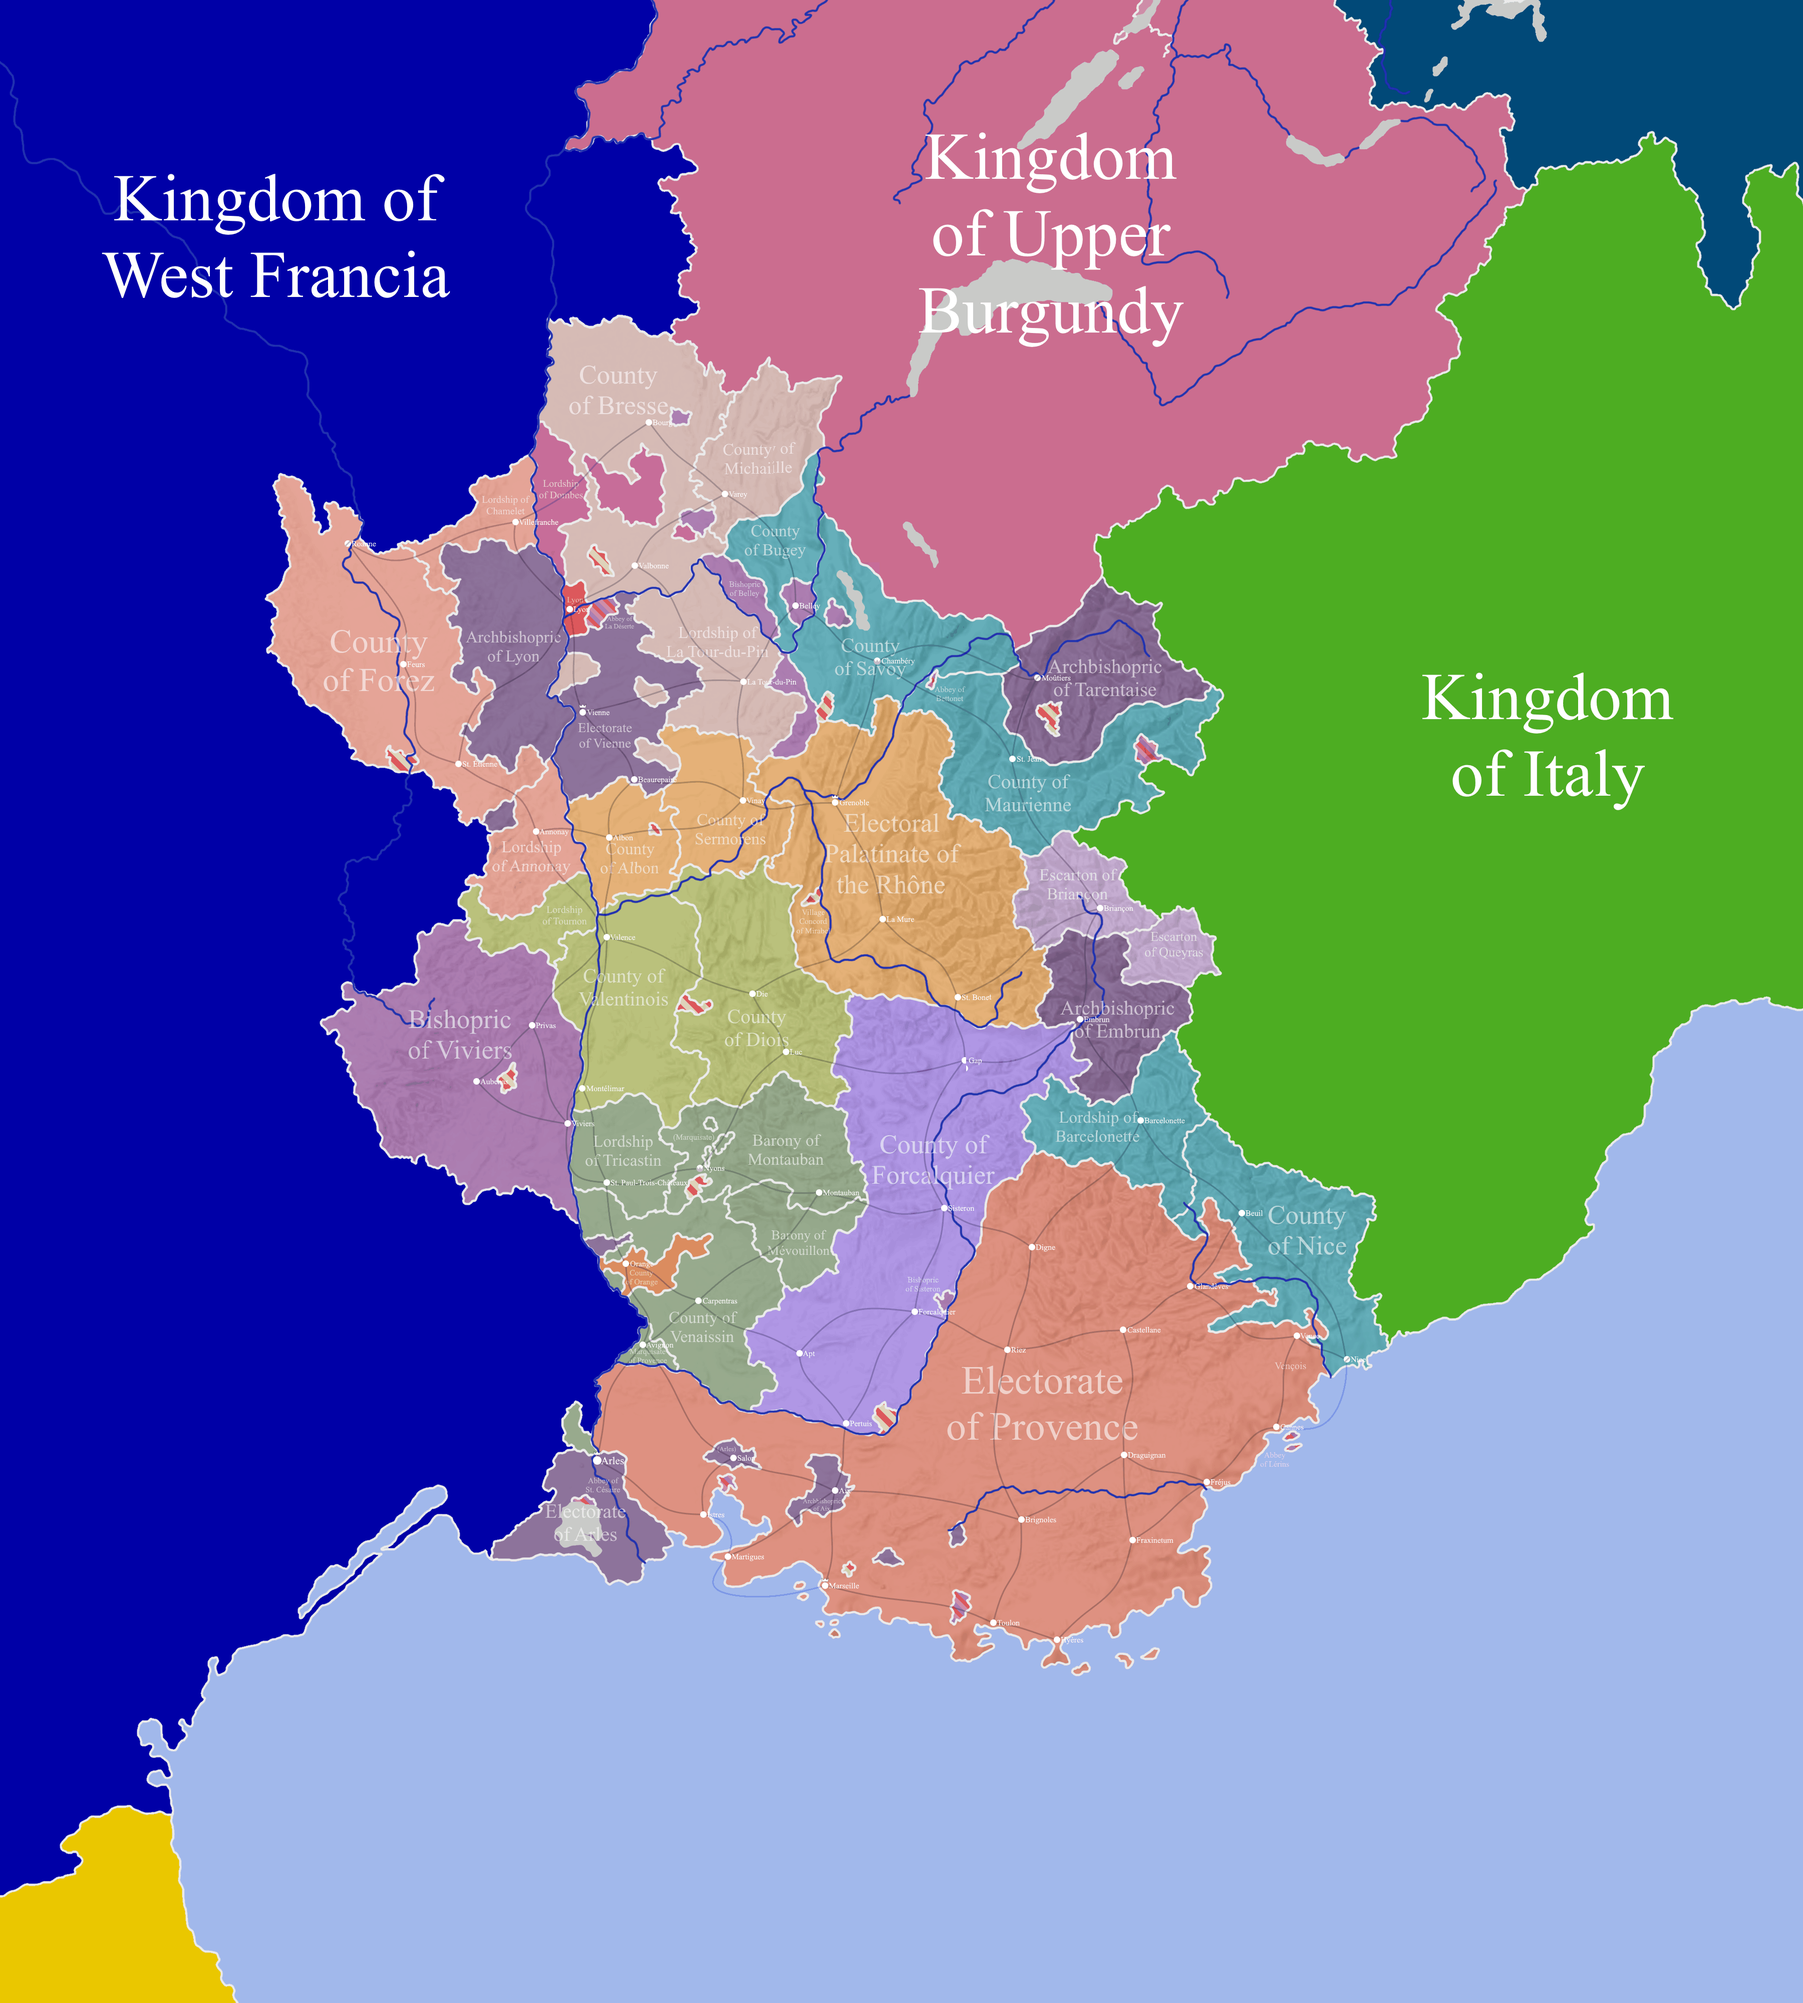
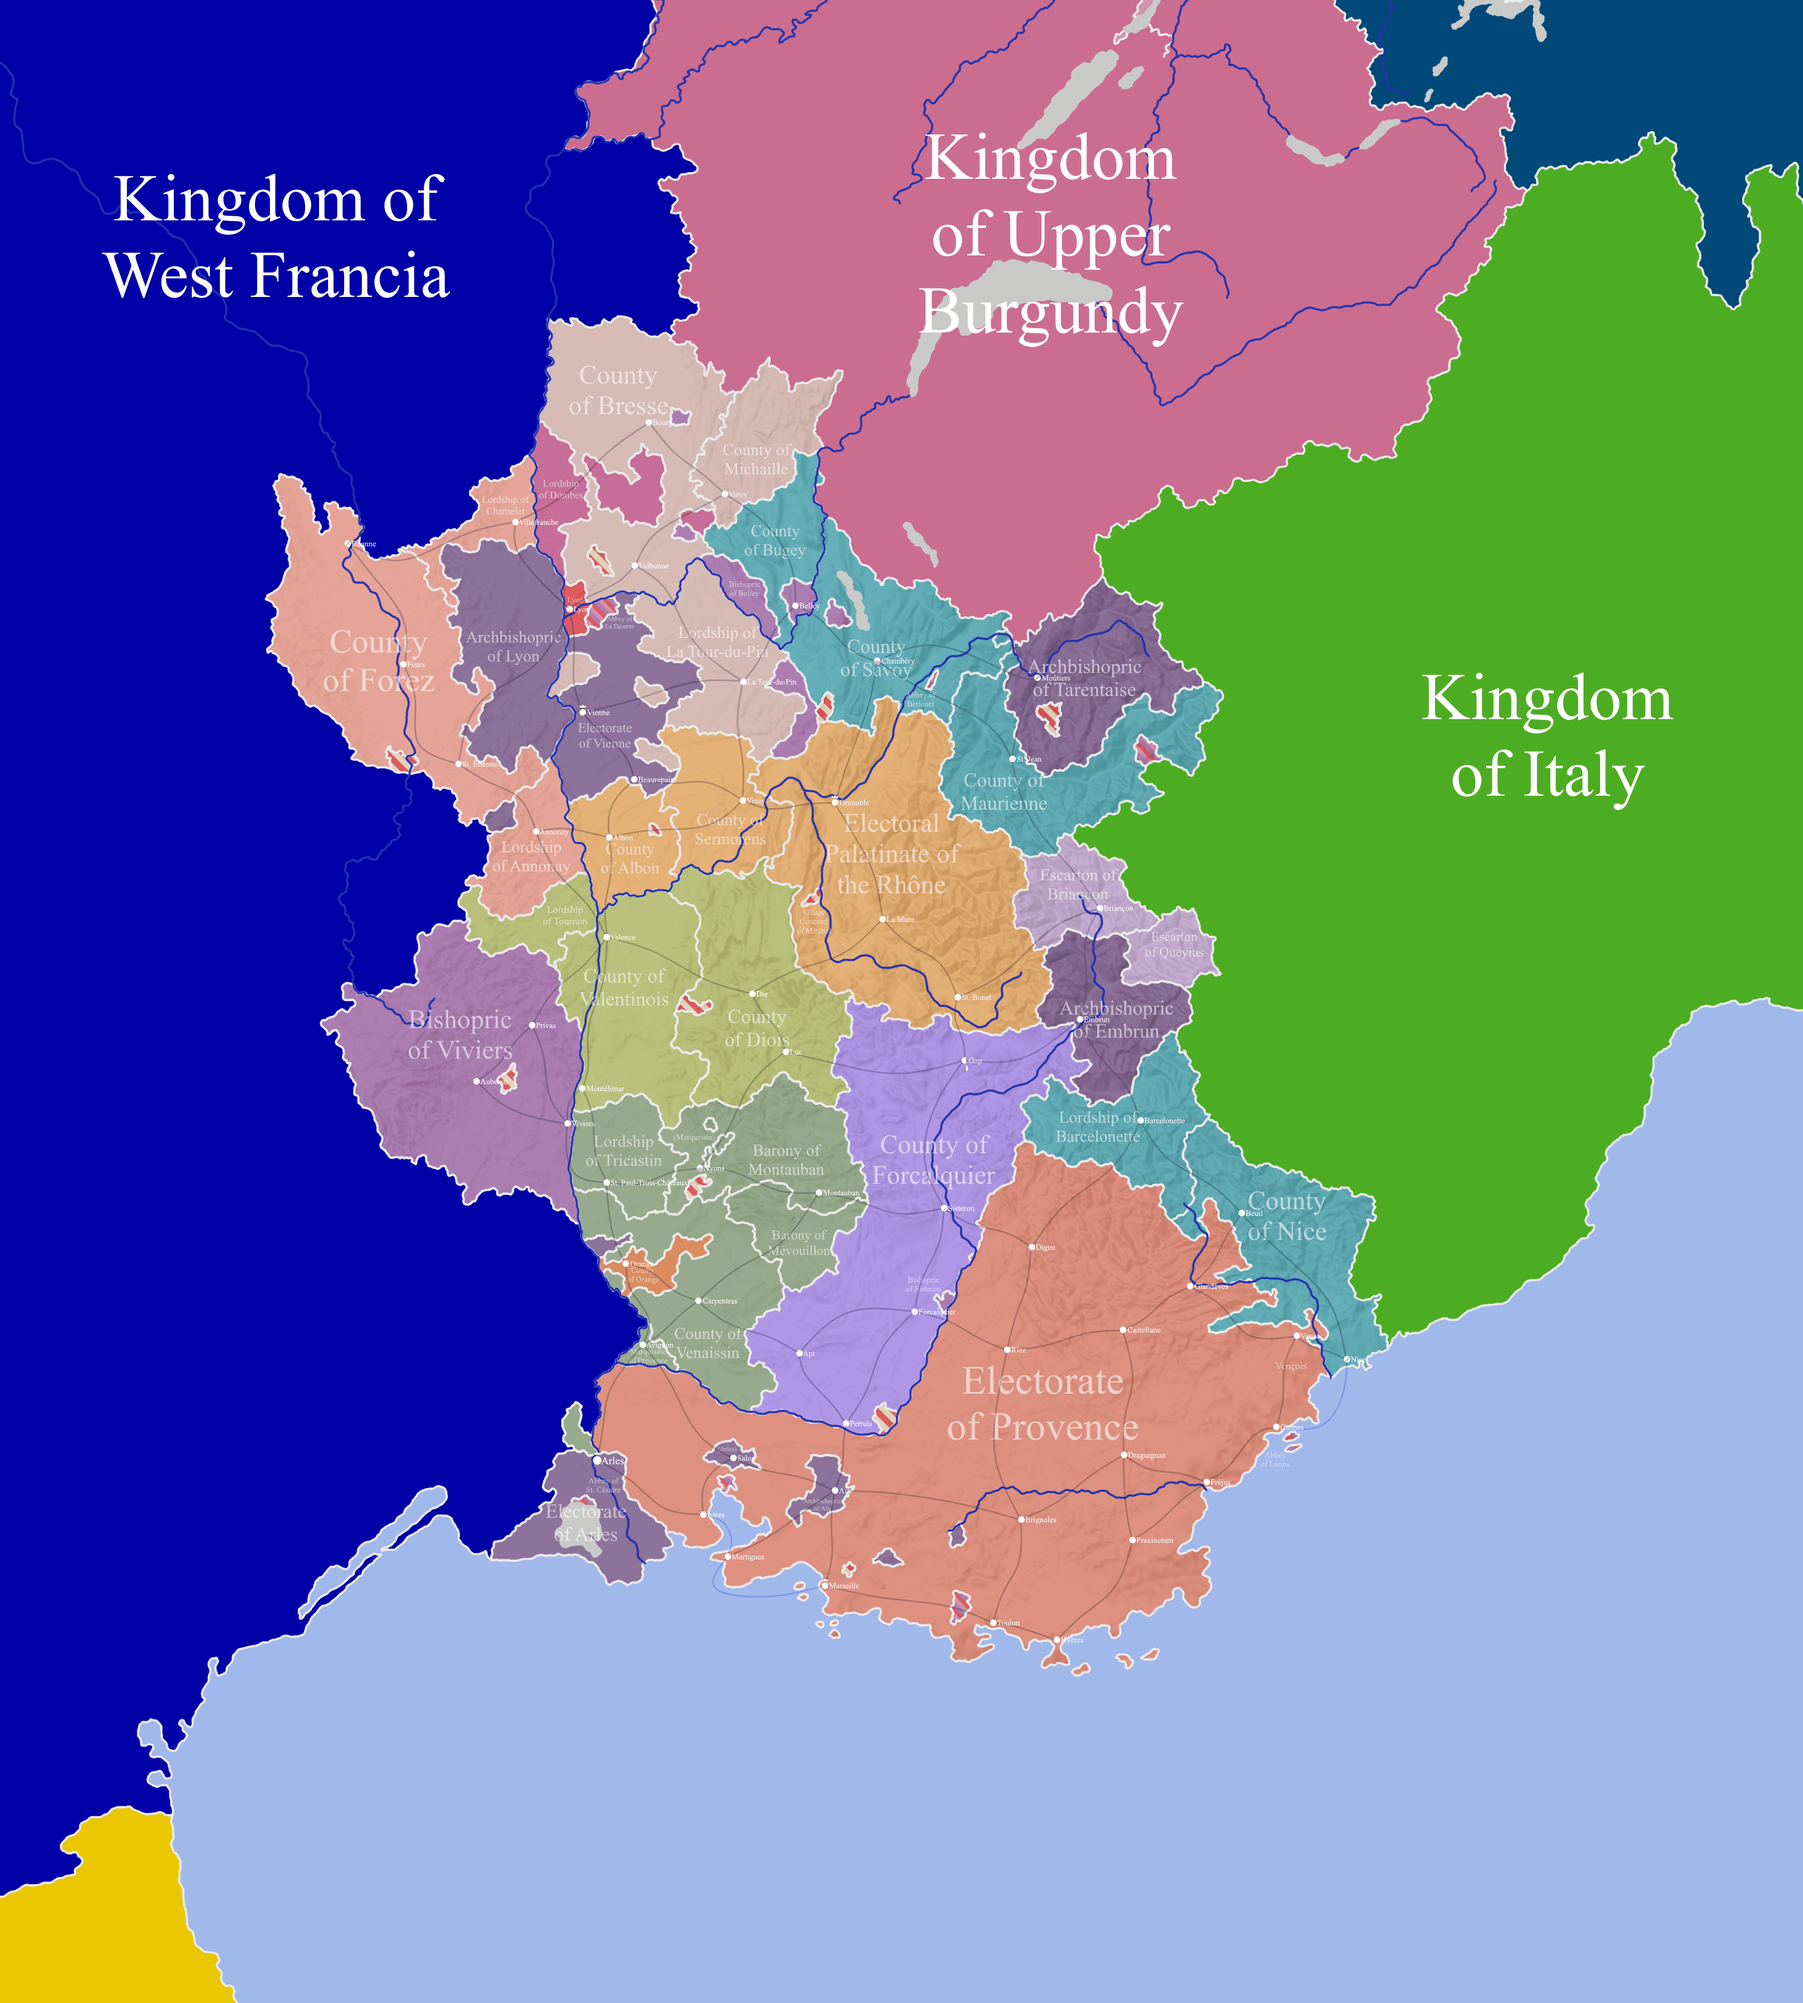
But Why?

diff --git a/Generators/Arelat/Data/states.js b/Generators/Arelat/Data/states.js
@@ -110,7 +110,7 @@ types={state:[
     district:`Alpes`,
     rule:`Ecclesiastical`,
     prestige:[],
-    area:76698,
+    area:77808,
   },{
     name:`Basel`,
     title:`Bishopric`,
@@ -152,7 +152,7 @@ types={state:[
     district:`Drôme`,
     rule:`Ecclesiastical`,
     prestige:[],
-    area:183831,
+    area:184950,
   },{
     name:`Sisteron`,
     title:`Bishopric`,
@@ -166,7 +166,7 @@ types={state:[
     district:`Helvetie`,
     rule:`Ecclesiastical`,
     prestige:[],
-    area:5926,
+    area:4757,
   },{
     name:`Bellelay`,
     title:`Abbey`,
@@ -194,7 +194,7 @@ types={state:[
     district:`Alpes`,
     rule:`Ecclesiastical`,
     prestige:[],
-    area:1618,
+    area:1611,
   },{
     name:`La Déserte`,
     title:`Abbey`,
@@ -264,7 +264,7 @@ types={state:[
     district:`Dauphiné`,
     rule:`Albon`,
     prestige:[`Elector`],
-    area:232586,
+    area:240598,
   },{
     name:`Albon`,
     title:`County`,
@@ -292,35 +292,35 @@ types={state:[
     district:`Dauphiné`,
     rule:`Albon`,
     prestige:[],
-    area:160367,
+    area:158607,
   },{
     name:`Chamelet`,
     title:`Lordship`,
     district:`Dauphiné`,
     rule:`Albon`,
     prestige:[],
-    area:23470,
+    area:21623,
   },{
     name:`Savoy`,
     title:`County`,
     district:`Alpes`,
     rule:`Savoy`,
     prestige:[`Duke`],
-    area:76834,
+    area:87771,
   },{
     name:`Bugey`,
     title:`County`,
     district:`Alpes`,
     rule:`Savoy`,
     prestige:[],
-    area:29131,
+    area:36242,
   },{
     name:`Maurienne`,
     title:`County`,
     district:`Alpes`,
     rule:`Savoy`,
     prestige:[],
-    area:97636,
+    area:91924,
   },{
     name:`Chablais`,
     title:`County`,
@@ -355,14 +355,14 @@ types={state:[
     district:`Romandie`,
     rule:`Savoy`,
     prestige:[],
-    area:71220,
+    area:77532,
   },{
     name:`Gex`,
     title:`Lordship`,
     district:`Bresse`,
     rule:`Savoy`,
     prestige:[],
-    area:18589,
+    area:19097,
   },{
     name:`Aigle`,
     title:`Lordship`,
@@ -418,7 +418,7 @@ types={state:[
     district:`Helvetie`,
     rule:`Zähringen`,
     prestige:[],
-    area:12334,
+    area:13686,
   },{
     name:`Unspunnen`,
     title:`Lordship`,
@@ -509,7 +509,7 @@ types={state:[
     district:`Bresse`,
     rule:`Bâgé`,
     prestige:[],
-    area:53070,
+    area:46447,
   },{
     name:`La Tour-du-Pin`,
     title:`Lordship`,
@@ -523,7 +523,7 @@ types={state:[
     district:`Drôme`,
     rule:`Poitiers`,
     prestige:[],
-    area:94770,
+    area:93460,
   },{
     name:`Diois`,
     title:`County`,
@@ -544,14 +544,14 @@ types={state:[
     district:`Provence`,
     rule:`Barcelona`,
     prestige:[`Elector`,`Duke`],
-    area:711457,
+    area:714087,
   },{
     name:`Franche-Comté`,
     title:`County`,
     district:`Franche-Comté`,
     rule:`Andechs`,
     prestige:[`Elector`,`Duke`],
-    area:627648,
+    area:628254,
   },{
     name:`Montbéliard`,
     title:`County`,
@@ -586,7 +586,7 @@ types={state:[
     district:`Léman`,
     rule:`Thoire`,
     prestige:[],
-    area:150595,
+    area:135737,
   },{
     name:`Dombes`,
     title:`Lordship`,
@@ -642,7 +642,7 @@ types={state:[
     district:`Cottia`,
     rule:`Sabran`,
     prestige:[],
-    area:269018,
+    area:258860,
   },{
     name:`The Seven Zenden`,
     title:`Republic`,
@@ -656,7 +656,7 @@ types={state:[
     district:`Franche-Comté`,
     rule:`Chalon`,
     prestige:[],
-    area:22247,
+    area:19619,
   },{
     name:`Salins`,
     title:`Barony`,
@@ -670,7 +670,7 @@ types={state:[
     district:`Alpes`,
     rule:`Republic`,
     prestige:[],
-    area:37209,
+    area:36281,
   },{
     name:`Queyras`,
     title:`Escarton`,

diff --git a/Generators/Arelat/Data/districts.js b/Generators/Arelat/Data/districts.js
@@ -2,11 +2,11 @@ types.district=[
     {
         name:`Léman`,
         region:`Léman`,
-        area:163313,
+        area:148454,
     },{
         name:`Franche-Comté`,
         region:`Transjurania`,
-        area:807695,
+        area:805452,
     },{
         name:`Helvetie`,
         region:`Transjurania`,
@@ -14,30 +14,30 @@ types.district=[
     },{
         name:`Romandie`,
         region:`Transjurania`,
-        area:598827,
+        area:624984 ,
     },{
         name:`Bresse`,
         region:`Cisjurania`,
-        area:395262,
+        area:367898,
     },{
         name:`Alpes`,
         region:`Cisjurania`,
-        area:375669,
+        area:389650,
     },{
         name:`Dauphiné`,
         region:`Cisjurania`,
-        area:622974,
+        area:627474,
     },{
         name:`Drôme`,
         region:`Provence`,
-        area:662129,
+        area:662305,
     },{
         name:`Cottia`,
         region:`Provence`,
-        area:488021,
+        area:477761,
     },{
         name:`Provence`,
         region:`Provence`,
-        area:777212,
+        area:778876,
     },
 ]
